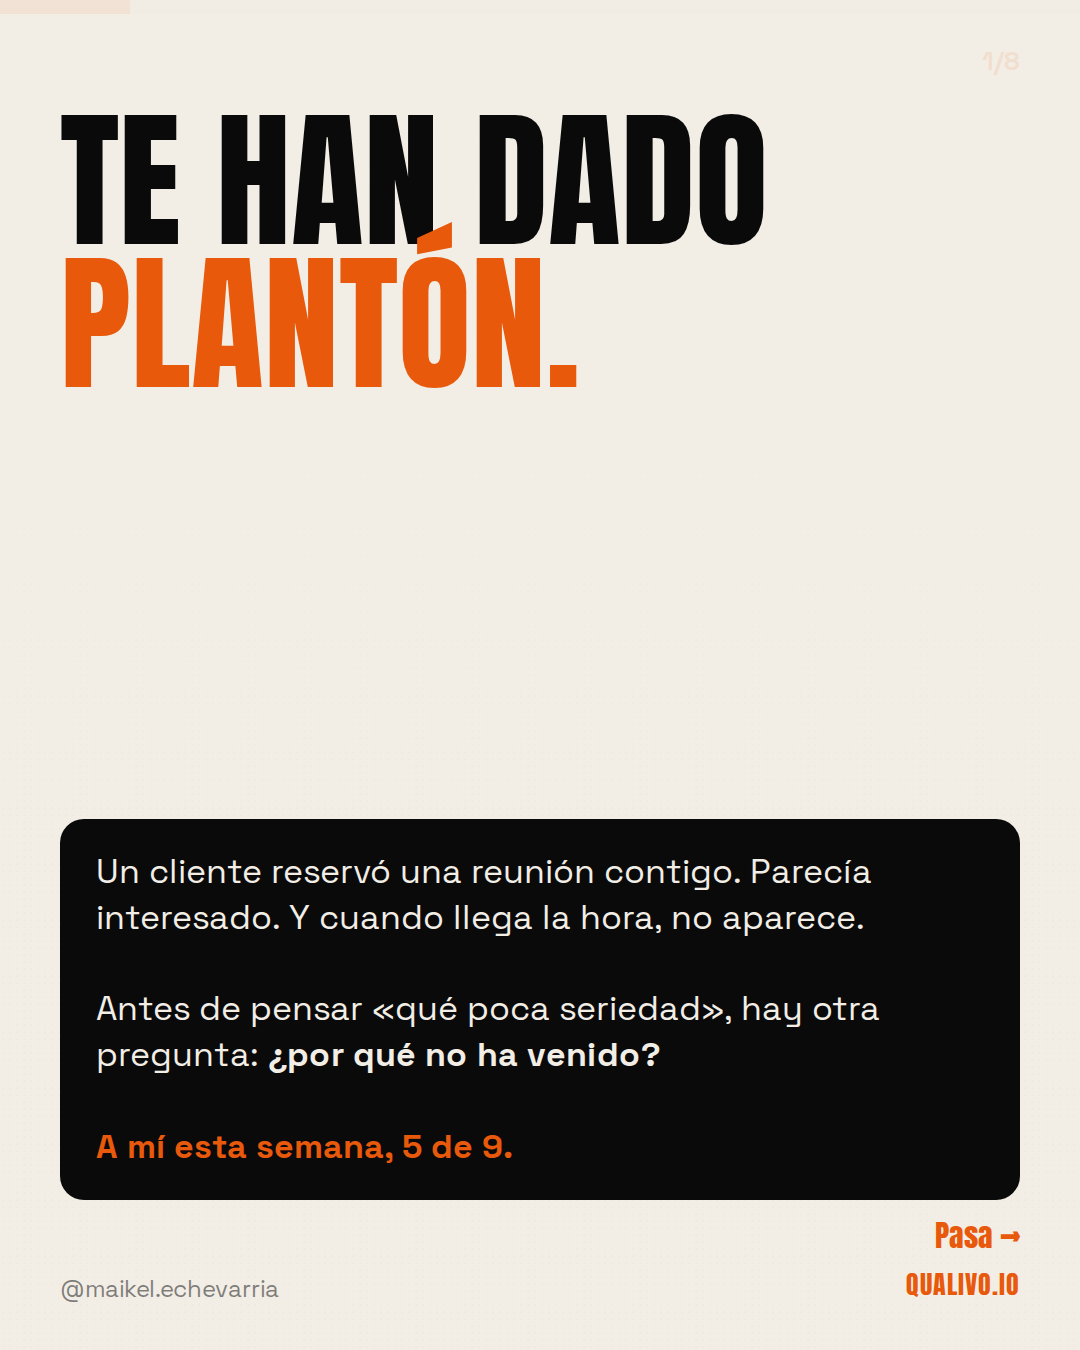
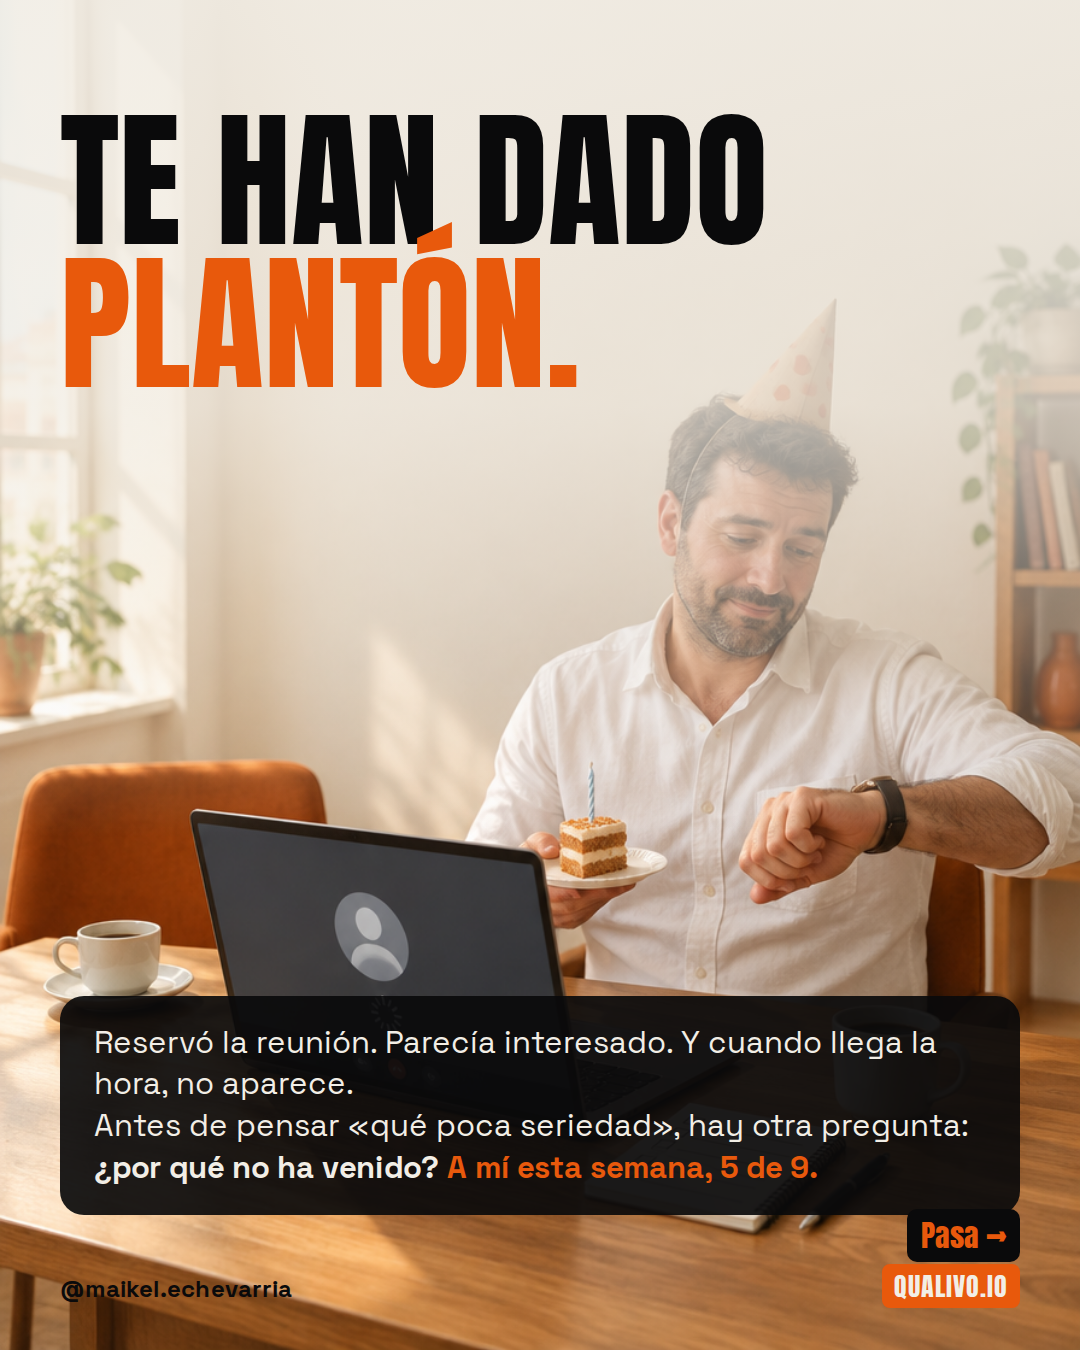
Carrusel de plantones: portada generada en Higgsfield, pie de foto y README
Claude-Session: https://claude.ai/code/session_015zPzMSu62cfqSPYhENKK62

diff --git a/content/carruseles/2026-09-24-plantones/lamina-1.html b/content/carruseles/2026-09-24-plantones/lamina-1.html
@@ -17,16 +17,16 @@
 .sol .lab{display:block;font-family:Anton;font-size:40px;color:#E8590C;margin-bottom:14px;text-transform:uppercase}
 .sol p+p{margin-top:12px}
 .sol b{color:#fff}
-.next{position:absolute;bottom:92px;right:60px;font-family:Anton;font-size:30px;color:#E8590C}
-.firma{position:absolute;bottom:46px;left:60px;font-size:24px;color:rgba(10,10,11,.5)}
-.web{position:absolute;bottom:46px;right:60px;font-family:Anton;font-size:26px;letter-spacing:.04em;color:#E8590C}
+.next{position:absolute;bottom:88px;right:60px;font-family:Anton;font-size:30px;color:#E8590C;background:#0A0A0B;padding:4px 14px;border-radius:10px}
+.firma{position:absolute;bottom:46px;left:60px;font-size:24px;color:#0A0A0B;font-weight:700}
+.web{position:absolute;bottom:42px;right:60px;font-family:Anton;font-size:26px;letter-spacing:.04em;color:#F2EEE6;background:#E8590C;padding:2px 12px;border-radius:8px}
 .cover{position:absolute;inset:0;background:url(portada.jpg) center/cover}
 .cover::after{content:'';position:absolute;inset:0;background:linear-gradient(180deg,rgba(242,238,230,.92) 0%,rgba(242,238,230,.75) 30%,rgba(242,238,230,0) 62%)}
 .ch{position:absolute;top:110px;left:60px;right:60px;font-family:Anton;font-size:150px;line-height:.95;text-transform:uppercase;color:#0A0A0B}
 .ch .nar{color:#E8590C}
-.cs{position:absolute;bottom:150px;left:60px;right:60px;background:#0A0A0B;color:#F2EEE6;border-radius:24px;padding:30px 36px;font-size:34px;line-height:1.35}
+.cs{position:absolute;bottom:135px;left:60px;right:60px;background:rgba(10,10,11,.92);color:#F2EEE6;border-radius:24px;padding:26px 34px;font-size:31px;line-height:1.35}
 .big{font-family:Anton;font-size:64px;line-height:1.05;text-transform:uppercase;margin:6px 0 18px}
 .lista p{padding-left:52px;position:relative}
 .lista p::before{content:'✗';position:absolute;left:0;color:#E8590C;font-weight:700}
 </style></head><body><div class="page"><div class="prog"><i style="width:12%"></i></div><div class="n">1/8</div><div class="cover"></div><div class="ch">Te han dado <span class="nar">plantón.</span></div>
-<div class="cs">Un cliente reservó una reunión contigo. Parecía interesado. Y cuando llega la hora, no aparece.<br><br>Antes de pensar «qué poca seriedad», hay otra pregunta: <b>¿por qué no ha venido?</b><br><br><span style="color:#E8590C;font-weight:700">A mí esta semana, 5 de 9.</span></div><div class="next">Pasa →</div><div class="firma">@maikel.echevarria</div><div class="web">QUALIVO.IO</div></div></body></html>
+<div class="cs">Reservó la reunión. Parecía interesado. Y cuando llega la hora, no aparece.<br>Antes de pensar «qué poca seriedad», hay otra pregunta: <b>¿por qué no ha venido?</b> <span style="color:#E8590C;font-weight:700">A mí esta semana, 5 de 9.</span></div><div class="next">Pasa →</div><div class="firma">@maikel.echevarria</div><div class="web">QUALIVO.IO</div></div></body></html>
